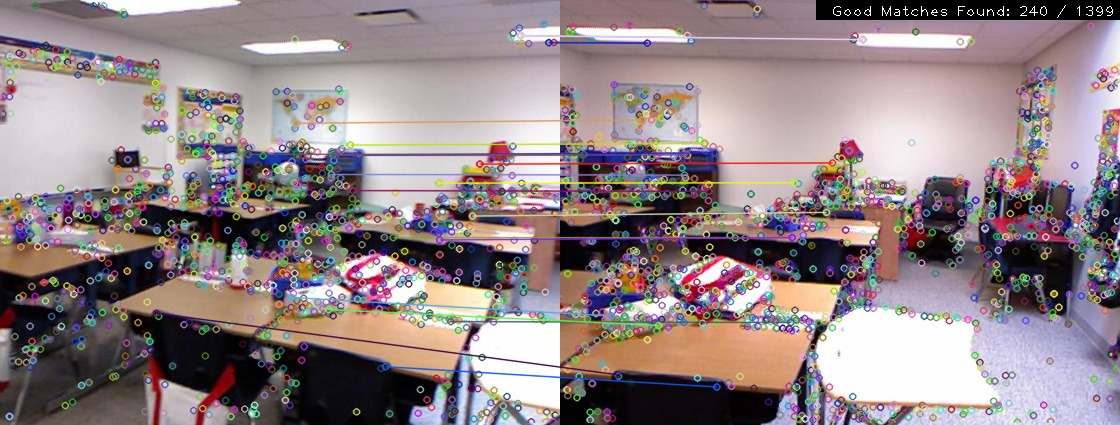
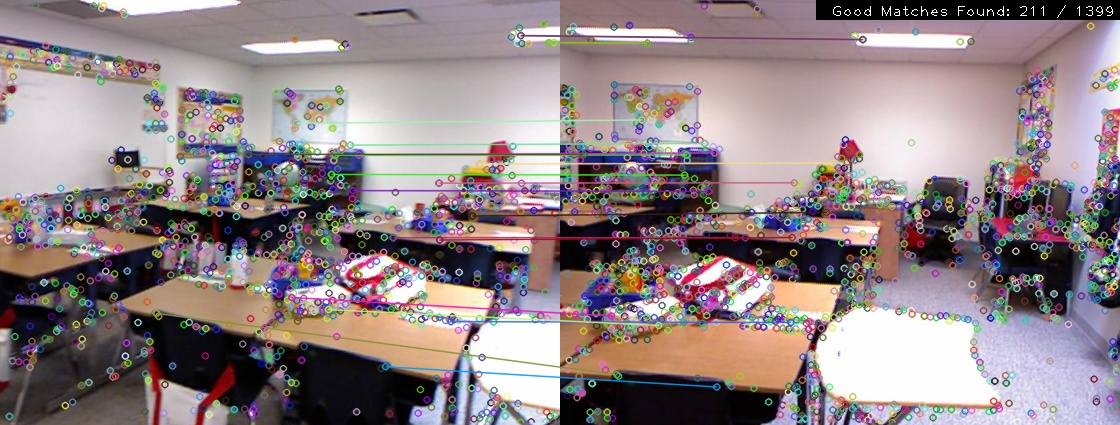
Computed essential matrix. ToDO: Recover Pose

diff --git a/compvisiontests/sfm.cpp b/compvisiontests/sfm.cpp
@@ -2,6 +2,8 @@
 #include "common.h"
 #include "sfm.h"
 
+#include "opencv2/flann.hpp"
+
 void ProcessSFM(std::filesystem::path image1_path, std::filesystem::path image2_path, bool show_result)
 {
 	using namespace cv;
@@ -26,7 +28,7 @@ void ProcessSFM(std::filesystem::path image1_path, std::filesystem::path image2_
 
 	// DO BRUTE FORCE MATCHING
 	// Match points in destination
-	Ptr<BFMatcher> matcher = BFMatcher::create();
+	Ptr<FlannBasedMatcher> matcher = makePtr<FlannBasedMatcher>(makePtr<flann::KDTreeIndexParams>(5), makePtr<flann::SearchParams>(50));
 	Matches matches;
 	matcher->knnMatch(image1_descriptors, image2_descriptors, matches, NUM_NEAREST_NEIGHBOURS);
 
@@ -56,12 +58,38 @@ void ProcessSFM(std::filesystem::path image1_path, std::filesystem::path image2_
 
 	// Draw Output
 	std::vector<Point2f> object_box_outline;
-	Mat homographyMask;
+	Mat essentialMatrixMask;
+	
+
+	// Separate out the image 1 and 2 points from good matches
+	std::vector<Point2f> image1_points, image2_points;
+	for (MatchNeighbours::iterator neighbourItr = good_matches.begin(); neighbourItr != good_matches.end(); neighbourItr++)
+	{
+		DMatch hoodMatch = *neighbourItr;
+		image1_points.push_back(image1_keypoints[hoodMatch.queryIdx].pt);
+		image2_points.push_back(image2_keypoints[hoodMatch.trainIdx].pt);
+	}
+
+	// Intrinsic Matrix
+	Mat intrinsicMatrix = Mat::eye(3, 3, CV_64F);
+	intrinsicMatrix.at<double>(0, 0) = 518.86; intrinsicMatrix.at<double>(0, 1) = 000.00; intrinsicMatrix.at<double>(0, 2) = 285.58;
+	intrinsicMatrix.at<double>(1, 0) = 000.00; intrinsicMatrix.at<double>(1, 1) = 519.47; intrinsicMatrix.at<double>(1, 2) = 213.74;
+	intrinsicMatrix.at<double>(2, 0) = 000.00; intrinsicMatrix.at<double>(2, 1) = 000.00; intrinsicMatrix.at<double>(2, 2) = 001.00;
+	
+
+	Mat essentialMatrix = findEssentialMat(image1_points, image2_points, intrinsicMatrix, RANSAC, 0.998999, 1.0, essentialMatrixMask);
+	std::cout << essentialMatrix <<std::endl;
+	unsigned int numInliers = (int)sum(essentialMatrixMask)[0];
+	unsigned int numOutliers = image1_points.size() - numInliers;
+
+	std::cout << "SFM Stats: \n\t Inliers: " << numInliers << "\n\t Outliers: " << numOutliers << std::endl << std::endl;
+
+
 	WriteMatchesOutput("sfm",
 		image1_name + "_" + image2_name,
 		image1, image1_keypoints,
 		image2, image2_keypoints,
 		good_matches, good_matches.size(), matches.size(),
-		object_box_outline, homographyMask,
+		object_box_outline, essentialMatrixMask,
 		show_result);
 }

diff --git a/compvisiontests/common.cpp b/compvisiontests/common.cpp
@@ -74,25 +74,29 @@ void WriteMatchesOutput(std::string dir_name,
 				maskedTop20Matches.push_back(filteredMatches[matchIndex]);
 			}
 		}
-		cv::drawMatches(sourceImage, sourceKeypoints, destinationImage, destinationKeypoints, maskedTop20Matches, output);
+		cv::drawMatches(sourceImage, sourceKeypoints, destinationImage, destinationKeypoints, maskedTop20Matches, output, cv::Scalar(0, 255, 0));
 	}	
 	else
 	{
 		destinationImage.copyTo(output);
 	}
 
-	// The box in our matches is offset by the object image. Hence the need for this shift.
-	if (!boxInScene.empty())
+	if (!output.empty())
 	{
-		std::vector<cv::Point2i> boxInSceneOffset;
-		for (unsigned int i = 0; i < boxInScene.size(); i++)
+		// The box in our matches is offset by the object image. Hence the need for this shift.
+		if (!boxInScene.empty())
 		{
-			boxInSceneOffset.push_back(cv::Point2i((int)(boxInScene[i].x + (float)sourceImage.getMat().cols), (int)boxInScene[i].y));
+			std::vector<cv::Point2i> boxInSceneOffset;
+			for (unsigned int i = 0; i < boxInScene.size(); i++)
+			{
+				boxInSceneOffset.push_back(cv::Point2i((int)(boxInScene[i].x + (float)sourceImage.getMat().cols), (int)boxInScene[i].y));
+			}
+			cv::polylines(output, boxInSceneOffset, true, cv::Scalar(0, 0, 255, 0), 2);
 		}
-		cv::polylines(output, boxInSceneOffset, true, cv::Scalar(0, 0, 255, 0), 2);
 
-		cv::imwrite("Output\\" + output_name + ".jpg", output);
-	}	
+
+		cv::imwrite("Output\\" + dir_name + "\\" + output_name + ".jpg", output);
+	}
 
 	if (showImage)
 	{

diff --git a/compvisiontests/common.h b/compvisiontests/common.h
@@ -7,7 +7,7 @@ typedef std::vector<MatchNeighbours> Matches;
 typedef std::vector<cv::KeyPoint> KeyPoints;
 
 const int NUM_NEAREST_NEIGHBOURS = 2;
-const double THRESHOLD_DISTANCE = 0.75;
+const double THRESHOLD_DISTANCE = 0.7;
 const int MAX_MATCHES = 20;
 
 
